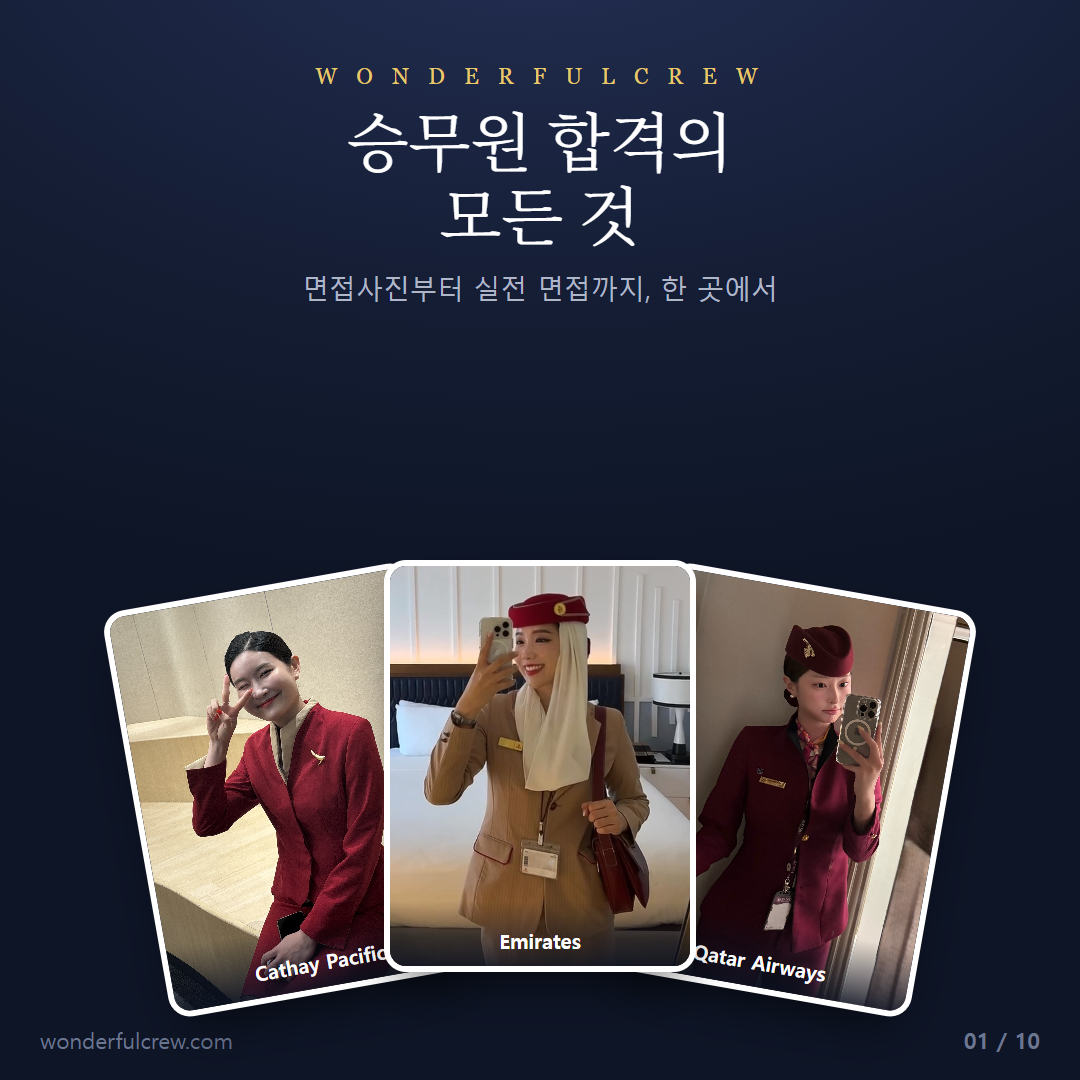
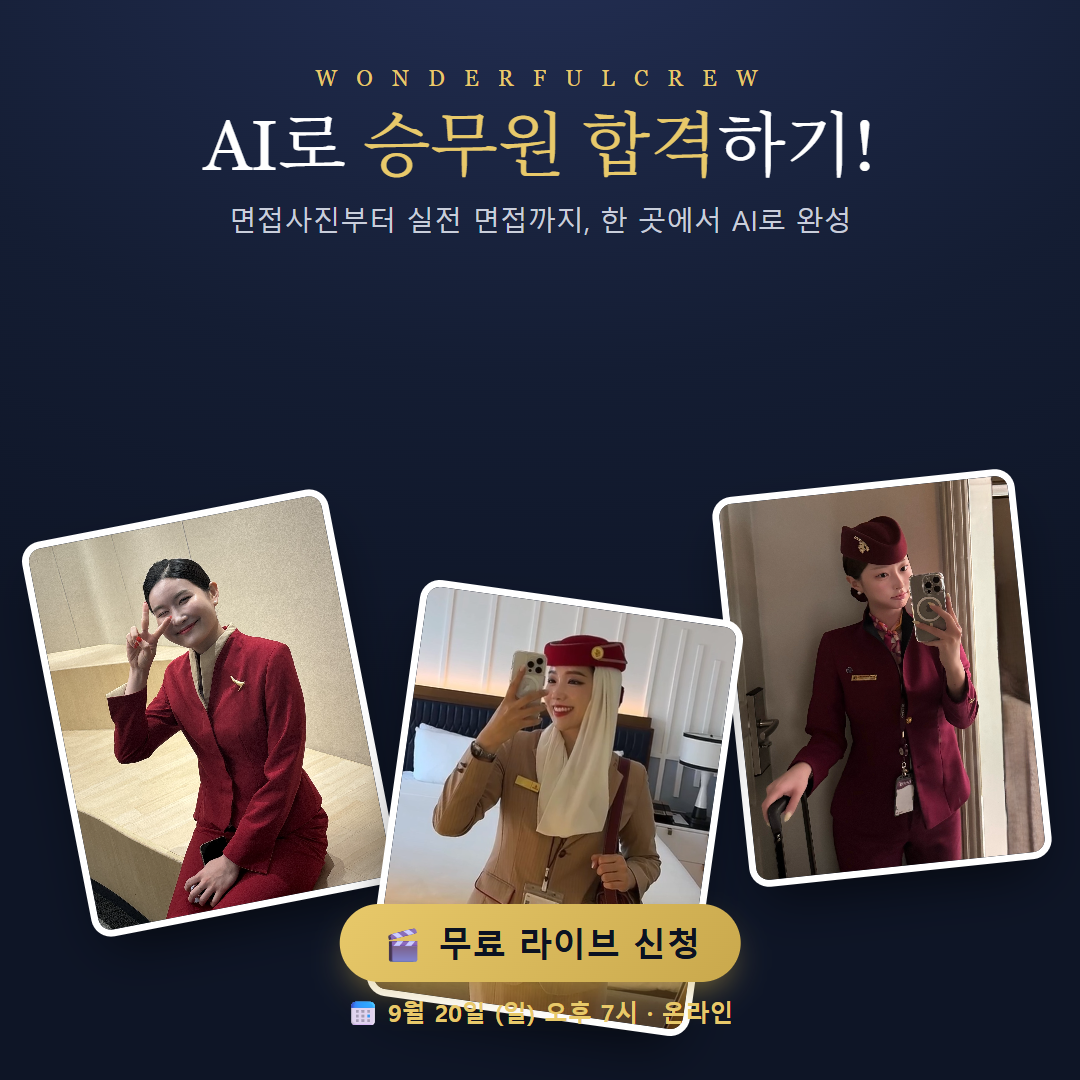
히어로·인스타1: 승무원 3명 자유 배치(중심 수렴 X, 높낮이·기울기 불규칙) · 인스타1 'AI로 승무원 합격하기!'+무료라이브 문구

diff --git a/landing.html b/landing.html
@@ -42,11 +42,14 @@ nav{position:sticky;top:0;z-index:50;display:flex;align-items:center;justify-con
 .hero h1 em{font-style:normal;color:#0E9E96;}
 .hero p{font-family:'Noto Sans KR',sans-serif;color:var(--muted);font-size:1.05rem;line-height:1.85;max-width:600px;margin:0 auto 24px;}
 .hero-cta{display:inline-flex;align-items:center;gap:9px;padding:14px 32px;border-radius:26px;background:linear-gradient(135deg,var(--gold-l),var(--gold));color:#fff;font-family:'Noto Sans KR',sans-serif;font-size:0.98rem;font-weight:700;}
-.hero-crew{display:flex;justify-content:center;align-items:flex-end;margin:34px auto 6px;}
-.hc-card{width:170px;height:228px;border-radius:16px;overflow:hidden;border:4px solid #fff;box-shadow:0 18px 40px -14px rgba(26,35,64,.5);transform:rotate(var(--r)) translateY(var(--y,0));position:relative;margin:0 -14px;background:#0B1222;}
-.hc-card.hc-mid{width:188px;height:250px;z-index:3;}
-.hc-card img{width:100%;height:100%;object-fit:cover;object-position:center 16%;display:block;}
-@media(max-width:600px){.hc-card{width:112px;height:150px;margin:0 -10px;}.hc-card.hc-mid{width:124px;height:166px;}}
+.hero-crew{position:relative;width:min(540px,94vw);height:360px;margin:26px auto 0;}
+.hc-card{position:absolute;border-radius:16px;overflow:hidden;border:5px solid #fff;box-shadow:0 22px 46px -14px rgba(26,35,64,.55);background:#0B1222;}
+.hc-card img{width:100%;height:100%;object-fit:cover;object-position:center 15%;display:block;}
+.hc-a{width:194px;height:256px;left:2%;top:22px;transform:rotate(-11deg);z-index:2;}
+.hc-b{width:206px;height:270px;left:40%;top:88px;transform:rotate(8deg);z-index:3;}
+.hc-c{width:184px;height:242px;right:1%;top:8px;transform:rotate(-6deg);z-index:1;}
+@media(max-width:600px){.hero-crew{height:250px;}
+  .hc-a{width:130px;height:172px;top:20px;} .hc-b{width:140px;height:184px;top:66px;} .hc-c{width:124px;height:164px;top:6px;}}
 
 .section-title{text-align:center;padding:46px 22px 4px;}
 .section-title .eyebrow{font-family:'DM Serif Display',serif;letter-spacing:0.24em;font-size:0.7rem;color:var(--gold);text-transform:uppercase;}
@@ -204,9 +207,9 @@ footer b{color:#fff;}
   <div style="display:inline-block;margin:0 auto 14px;background:#fff;border:1.6px solid var(--gold);color:var(--navy);font-family:'Noto Sans KR',sans-serif;font-weight:800;font-size:0.98rem;padding:9px 20px;border-radius:22px;box-shadow:0 8px 20px -12px rgba(201,168,76,0.6);">📅 9월 20일 (일) 오후 7시 · 온라인 무료 라이브</div><br>
   <a href="#apply" class="hero-cta">무료 라이브 수업 신청하기 →</a>
   <div class="hero-crew">
-    <div class="hc-card" style="--r:-14deg;--y:22px;"><img src="images/advisor-cathay.jpg" alt="캐세이퍼시픽 승무원"></div>
-    <div class="hc-card hc-mid" style="--r:6deg;--y:-18px;"><img src="images/advisor-emirates.jpg" alt="에미레이트 승무원"></div>
-    <div class="hc-card" style="--r:16deg;--y:12px;"><img src="images/advisor-qatar.jpg" alt="카타르항공 승무원"></div>
+    <div class="hc-card hc-a"><img src="images/advisor-cathay.jpg" alt="캐세이퍼시픽 승무원"></div>
+    <div class="hc-card hc-b"><img src="images/advisor-emirates.jpg" alt="에미레이트 승무원"></div>
+    <div class="hc-card hc-c"><img src="images/advisor-qatar.jpg" alt="카타르항공 승무원"></div>
   </div>
 </header>
 
